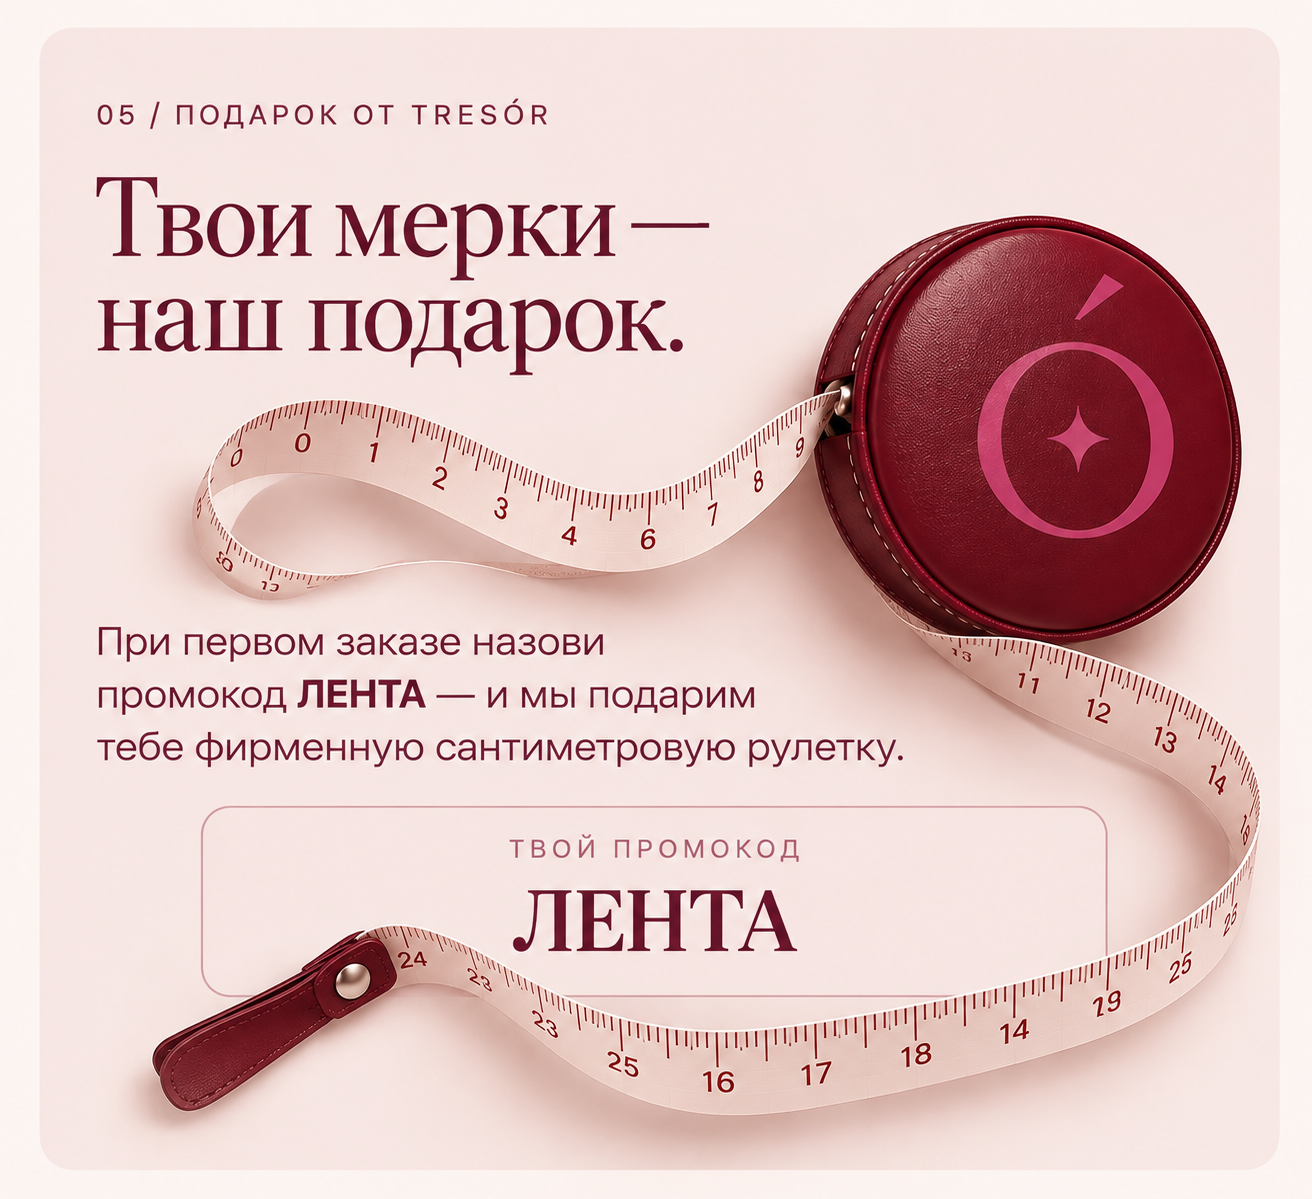
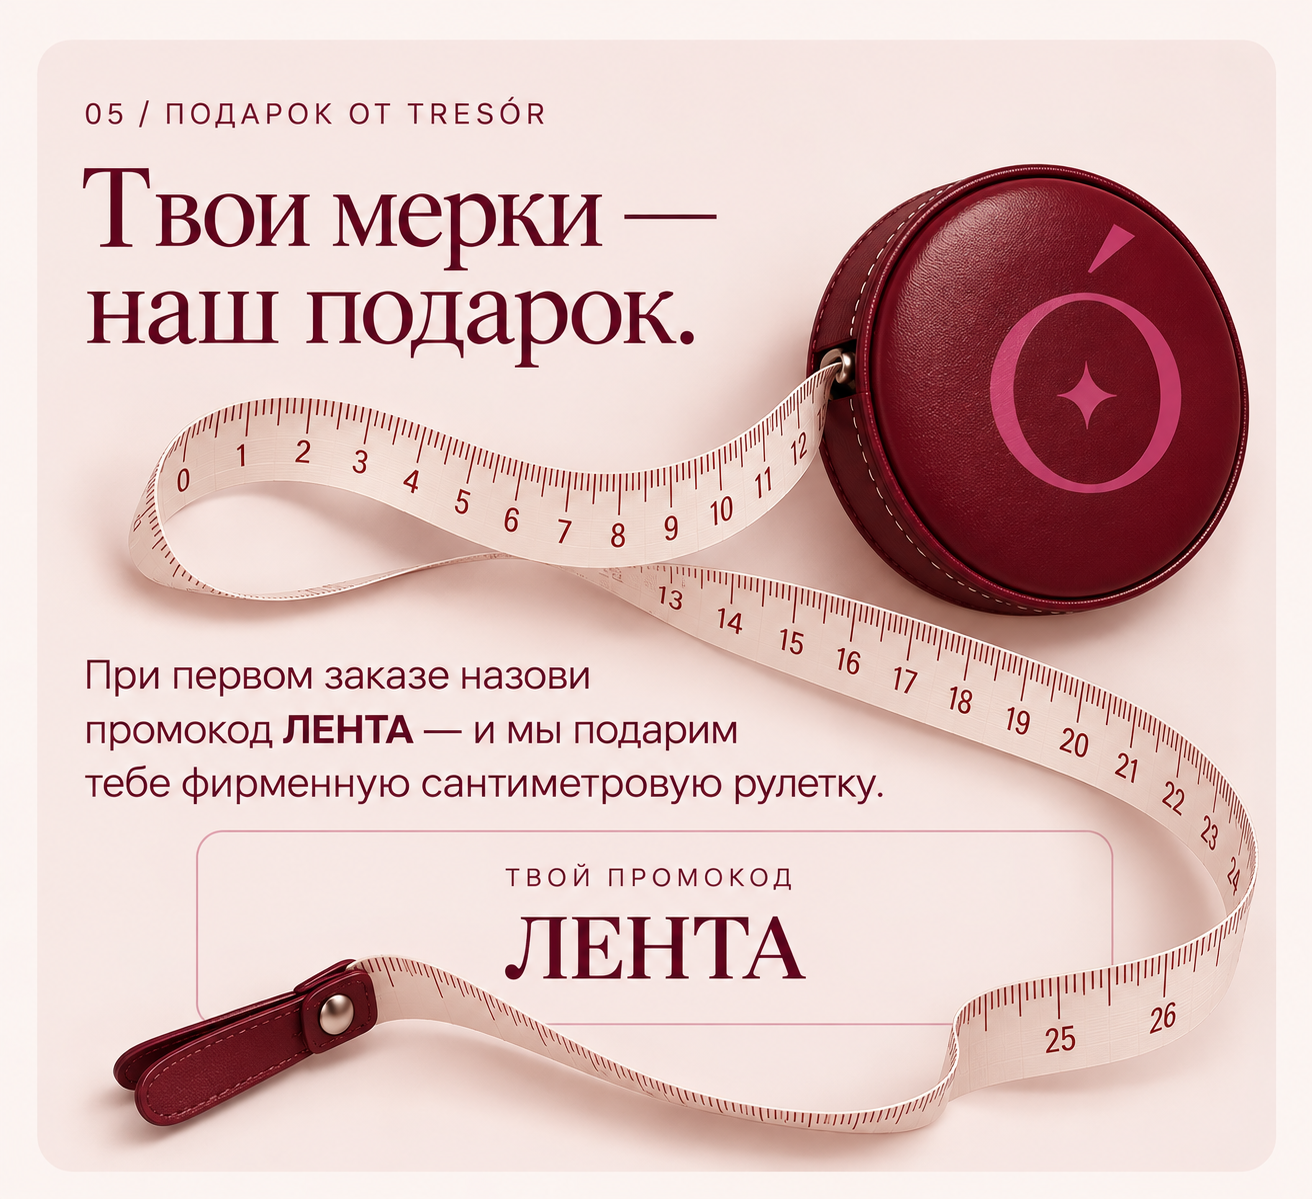
15

Changed region(s): [[0.0625, 0.0617, 0.9688, 0.9875], [0.3125, 0.0617, 0.4062, 0.1234]]

diff --git a/index.html b/index.html
@@ -16,7 +16,7 @@
 <section class="card" id="calculator"><div class="tag">02 / ТВОИ МЕРКИ</div><h2>Теперь посчитаем.</h2><form id="form"><div class="fields"><div><label for="under">Под грудью, см</label><input id="under" inputmode="decimal" type="text" placeholder="Например, 74" autocomplete="off" required></div><div><label for="arc">Горизонтальная дуга, см</label><input id="arc" inputmode="decimal" type="text" placeholder="Например, 21" autocomplete="off" required></div></div><button class="button" type="submit">Узнать свой размер →</button></form><div class="result" id="result" role="status" aria-live="polite"><div class="tag" id="resultTag"></div><div class="size" id="size"></div><p id="resultText"></p><p class="subtle" id="resultNote"></p><div class="result-actions"><button type="button" id="saveImage" class="action-btn secondary">Сохранить изображение ↓</button><button type="button" id="telegram" class="action-btn primary">Написать в Telegram ↗</button></div></div></section>
 <section class="card"><div class="tag">03 / ВАЖНО ЗНАТЬ</div><h2>Размер — начало, а не финал.</h2><p>Даже при точных мерках посадка зависит от формы груди, конструкции чашки и конкретной модели. Наш расчёт — ориентир для начала примерки. Окончательный размер зависит от модели и посадки.</p><p>Всегда ориентируйся прежде всего на свои ощущения: размерные сетки у разных производителей отличаются.</p><div class="divider"></div><h2>Как понять, что бюстгальтер сидит правильно?</h2><ul class="checklist"><li><strong>Пояс.</strong> Расположен параллельно полу, плотно прилегает и не задирается на спине. Именно пояс обеспечивает основную поддержку груди.</li><li><strong>Чашки.</strong> Грудь полностью находится в чашках, ничто её не пережимает. Верхний край не должен делить грудь пополам: если грудь выпирает над ним, чашка может быть мала или не подходить по форме.</li><li><strong>Косточки.</strong> Проходят под грудью, огибают её основание и не давят на мягкие ткани, в том числе со стороны подмышек.</li><li><strong>Перемычка.</strong> В бюстгальтере с косточками центральная часть между чашками должна прилегать к грудине, а не висеть перед ней.</li><li><strong>Бретели.</strong> Комфортно лежат на плечах и не врезаются в кожу. Их длину регулируют с учётом роста, пропорций корпуса и положения груди — не для того, чтобы подтянуть грудь к подбородку.</li></ul><div class="note">Грудь должна находиться <strong>В чашке</strong>, а не пытаться из неё сбежать! 🤎</div></section>
 <section class="card"><div class="tag">04 / РАЗМЕРНАЯ СЕТКА</div><h2>Размерная сетка TRESÓR</h2><details class="size-chart"><summary>Посмотреть таблицу размеров</summary><p class="chart-note">Наша практическая таблица. Все значения в сантиметрах.</p><div class="chart-vertical"><table><thead><tr><th>Российский<br>размер</th><th>Горизонтальная<br>дуга, см</th><th>Обхват под<br>грудью, см</th></tr></thead><tbody><tr class=""><td>70B</td><td>17,5–18</td><td>68–72</td></tr><tr class=""><td>70C</td><td>18–20,5</td><td>68–72</td></tr><tr class=""><td>70D</td><td>20,5–22,5</td><td>68–72</td></tr><tr class=""><td>70E</td><td>22,5–24</td><td>68–72</td></tr><tr class="group-start"><td>75A</td><td>17,5–18</td><td>73–77</td></tr><tr class=""><td>75B</td><td>18–20,5</td><td>73–77</td></tr><tr class=""><td>75C</td><td>20,5–22,5</td><td>73–77</td></tr><tr class=""><td>75D</td><td>22,5–24</td><td>73–77</td></tr><tr class=""><td>75E</td><td>24–25,5</td><td>73–77</td></tr><tr class="group-start"><td>80A</td><td>18–20,5</td><td>78–82</td></tr><tr class=""><td>80B</td><td>20,5–22,5</td><td>78–82</td></tr><tr class=""><td>80C</td><td>22,5–24</td><td>78–82</td></tr><tr class=""><td>80D</td><td>24–25,5</td><td>78–82</td></tr><tr class=""><td>80E</td><td>25,5–26,5</td><td>78–82</td></tr><tr class="group-start"><td>85B</td><td>22,5–24</td><td>83–87</td></tr><tr class=""><td>85C</td><td>24–25,5</td><td>83–87</td></tr><tr class=""><td>85D</td><td>25,5–26,5</td><td>83–87</td></tr></tbody></table></div><p class="chart-note">На границе двух диапазонов выбираем меньшую чашку. За пределами таблицы калькулятор может предложить предварительный размер по расширенной сетке.</p></details></section>
-<section class="gift-visual-section" aria-label="Подарок от TRESÓR"><img src="gift_visual.png?v=13" class="gift-visual" alt="05 / Подарок от TRESÓR. Твои мерки — наш подарок. При первом заказе назови промокод ЛЕНТА — и мы подарим тебе фирменную сантиметровую рулетку. Твой промокод: ЛЕНТА." loading="lazy"><p class="gift-small-note">Промокод <strong>ЛЕНТА</strong> назови при первом заказе. Копировать ничего не нужно 🤎</p></section>
+<section class="gift-visual-section" aria-label="Подарок от TRESÓR"><img src="gift_visual.png?v=14" class="gift-visual" alt="05 / Подарок от TRESÓR. Твои мерки — наш подарок. При первом заказе назови промокод ЛЕНТА — и мы подарим тебе фирменную сантиметровую рулетку. Твой промокод: ЛЕНТА." loading="lazy"><p class="gift-small-note">Промокод <strong>ЛЕНТА</strong> назови при первом заказе. Копировать ничего не нужно 🤎</p></section>
 <footer class="footer"><img src="logo.png?v=5" alt="TRESÓR"><div>Подбор размера — ориентир, а не замена примерке.</div><div>Мерки обрабатываются прямо на твоём устройстве и не отправляются на сервер.</div></footer></main>
 <script>
 'use strict';
@@ -62,7 +62,7 @@ function showTelegramDialog(copied,msg){
  el('openTelegram').focus();
 }
 el('telegram').addEventListener('click',async()=>{if(!current)return;const msg=telegramMessage();let copied=false;try{await navigator.clipboard.writeText(msg);copied=true}catch(e){const ta=document.createElement('textarea');ta.value=msg;ta.style.position='fixed';ta.style.opacity='0';document.body.append(ta);ta.select();try{copied=document.execCommand('copy')}catch(e){}ta.remove()}showTelegramDialog(copied,msg)});
-el('openTelegram').addEventListener('click',()=>{el('telegramDialog').hidden=true;window.open('https://t.me/tresor_tsk','_blank','noopener,noreferrer')});
+el('openTelegram').addEventListener('click',()=>{window.location.assign('https://t.me/tresor_tsk');});
 el('closeTelegram').addEventListener('click',()=>{el('telegramDialog').hidden=true});
 el('telegramDialog').addEventListener('click',e=>{if(e.target===el('telegramDialog'))el('telegramDialog').hidden=true});
 document.addEventListener('keydown',e=>{if(e.key==='Escape')el('telegramDialog').hidden=true});
